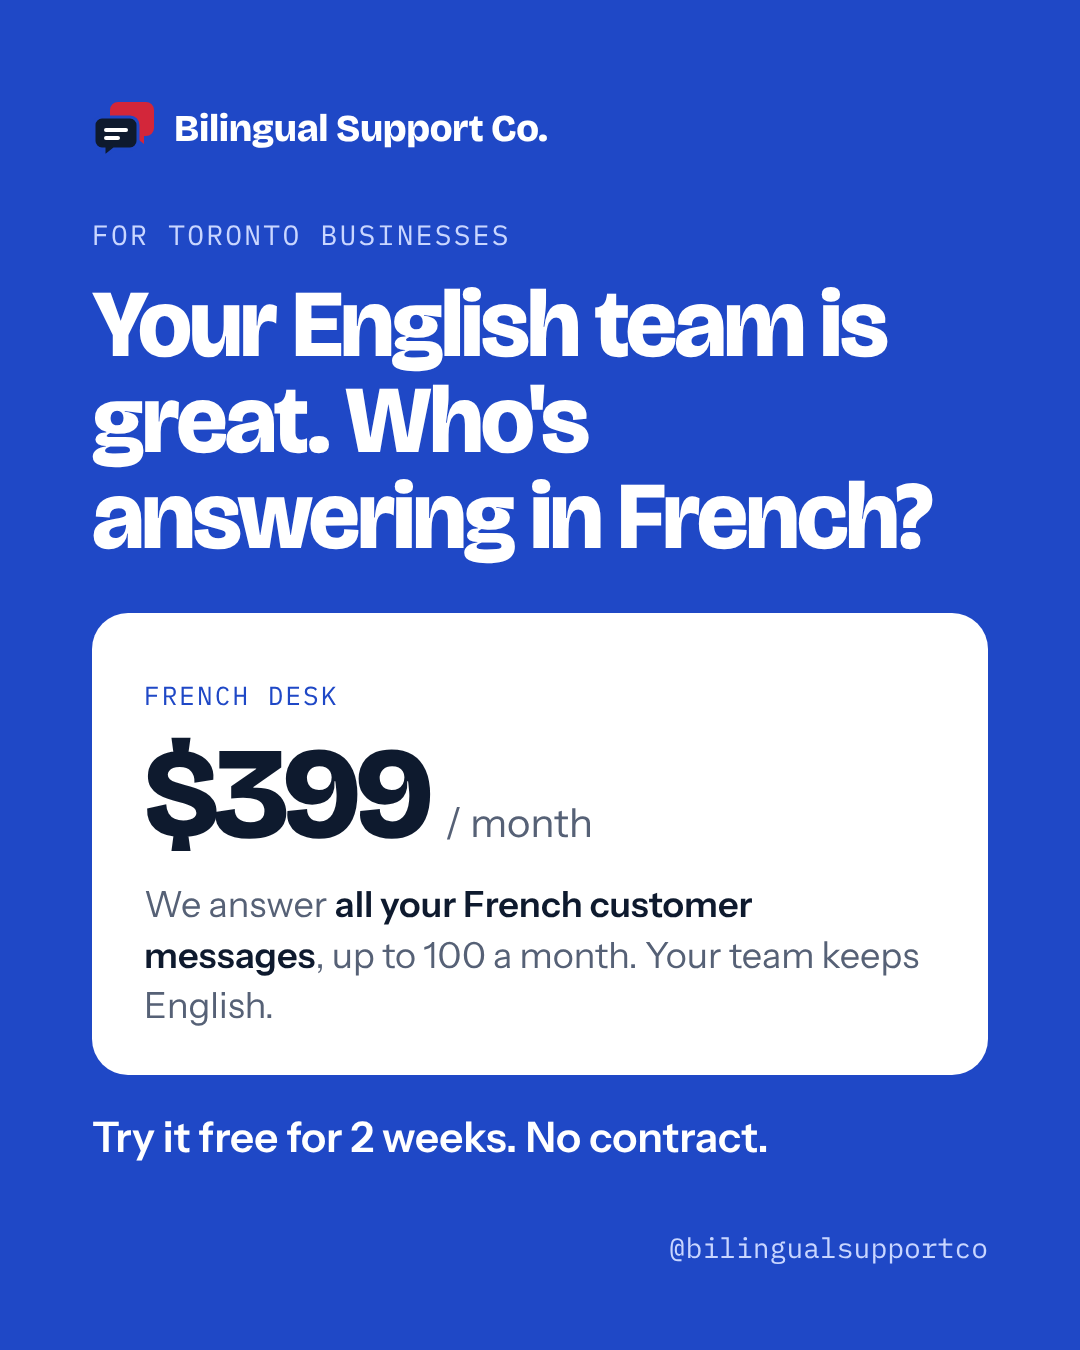
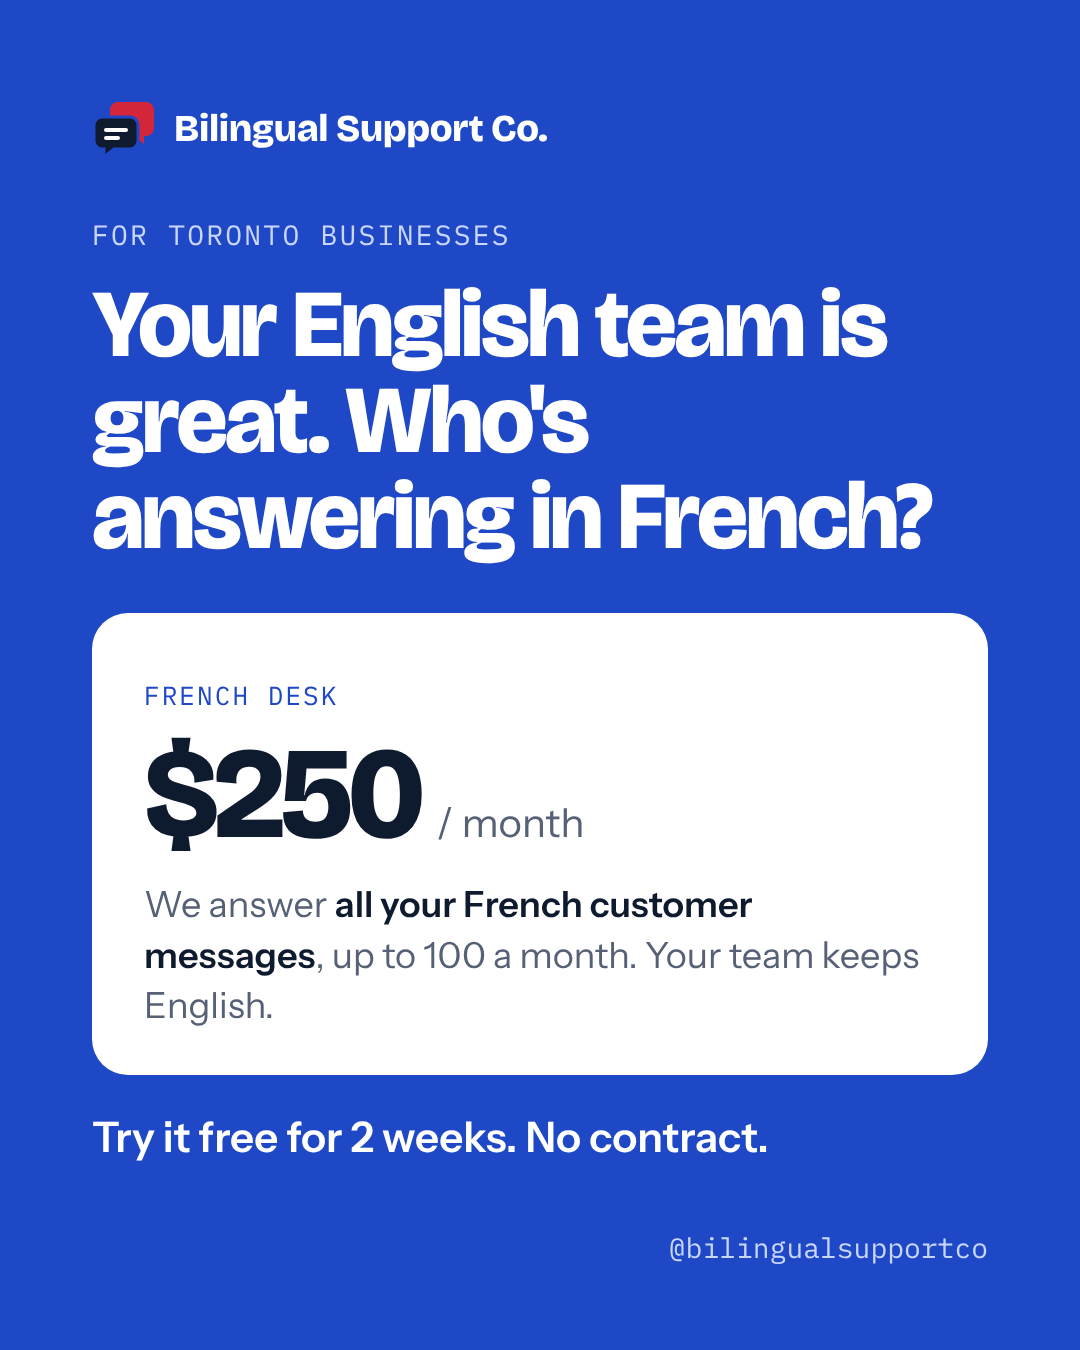
Lower French Desk to $250 a month
Updated on both pages, the outreach email, the Instagram post and the notes.

Claude-Session: https://claude.ai/code/session_01278itFnTQwsPyKsLeaEukH

Changed region(s): [[0.1833, 0.56, 0.55, 0.6222]]

diff --git a/fr/index.html b/fr/index.html
@@ -49,7 +49,7 @@
         <p class="label"><span>Service à la clientèle bilingue</span><span class="alt" lang="en-CA">Bilingual customer support</span></p>
         <h1>Votre service à la clientèle, en français et en anglais.</h1>
         <p class="echo" lang="en-CA">Your customer inbox, answered in English and French.</p>
-        <p class="lede">Nous répondons aux courriels et aux clavardages de vos clients en français et en anglais, directement dans vos outils et au nom de votre entreprise. Vous avez déjà une équipe en anglais? Nous pouvons prendre seulement vos messages en français, à partir de 399&nbsp;$ par mois.</p>
+        <p class="lede">Nous répondons aux courriels et aux clavardages de vos clients en français et en anglais, directement dans vos outils et au nom de votre entreprise. Vous avez déjà une équipe en anglais? Nous pouvons prendre seulement vos messages en français, à partir de 250&nbsp;$ par mois.</p>
         <div class="cta-row">
           <a class="btn btn-primary" href="#contact" data-pick="trial">Commencer l'essai gratuit de 2 semaines</a>
           <a class="btn btn-secondary" href="#tarifs">Voir les tarifs</a>
@@ -220,7 +220,7 @@
             <tr><td></td><th scope="col">Embauche à l'interne</th><th scope="col" class="us">Bilingual Support Co.</th></tr>
           </thead>
           <tbody>
-            <tr><th scope="row">Coût mensuel</th><td>Environ 4&nbsp;000&nbsp;$ ou plus pour une personne à temps plein, plus le recrutement</td><td class="us">399&nbsp;$ pour vos messages en français, ou 2&nbsp;500&nbsp;$ pour un agent à temps plein</td></tr>
+            <tr><th scope="row">Coût mensuel</th><td>Environ 4&nbsp;000&nbsp;$ ou plus pour une personne à temps plein, plus le recrutement</td><td class="us">250&nbsp;$ pour vos messages en français, ou 2&nbsp;500&nbsp;$ pour un agent à temps plein</td></tr>
             <tr><th scope="row">Délai avant la première réponse</th><td>Des semaines de recrutement, puis la formation</td><td class="us">Environ une semaine d'intégration</td></tr>
             <tr><th scope="row">Recrutement et formation</th><td>À votre charge</td><td class="us">Nous nous en occupons</td></tr>
             <tr><th scope="row">Vacances et congés de maladie</th><td>Le service en français s'arrête</td><td class="us">Nous assurons le remplacement</td></tr>
@@ -254,7 +254,7 @@
         <article class="plan plan-featured">
           <div class="plan-name"><h3>Service en français</h3><span class="plan-tag">Commencez ici</span></div>
           <p class="plan-fit">Pour les entreprises qui ont une équipe en anglais, mais personne pour le français.</p>
-          <div class="price"><span class="amount">399&nbsp;$</span><span class="unit">/ mois</span></div>
+          <div class="price"><span class="amount">250&nbsp;$</span><span class="unit">/ mois</span></div>
           <ul>
             <li><svg viewBox="0 0 20 20" fill="none" stroke="currentColor" stroke-width="2.2" aria-hidden="true"><path d="M4 10.5l4 4 8-9" stroke-linecap="round" stroke-linejoin="round"/></svg><span>Nous répondons à tous vos messages en français</span></li>
             <li><svg viewBox="0 0 20 20" fill="none" stroke="currentColor" stroke-width="2.2" aria-hidden="true"><path d="M4 10.5l4 4 8-9" stroke-linecap="round" stroke-linejoin="round"/></svg><span>Jusqu'à 100 conversations par mois</span></li>

diff --git a/index.html b/index.html
@@ -49,7 +49,7 @@
         <p class="label"><span>Bilingual customer support</span><span class="alt" lang="fr-CA">Service à la clientèle bilingue</span></p>
         <h1>Your customer inbox, answered in English and French.</h1>
         <p class="echo" lang="fr-CA">Votre service à la clientèle, en français et en anglais.</p>
-        <p class="lede">We reply to your customers' emails and chats in English and French, from inside your own tools and under your brand name. Already have an English team? We'll handle just your French messages, from $399 a month.</p>
+        <p class="lede">We reply to your customers' emails and chats in English and French, from inside your own tools and under your brand name. Already have an English team? We'll handle just your French messages, from $250 a month.</p>
         <div class="cta-row">
           <a class="btn btn-primary" href="#contact" data-pick="trial">Start a free 2-week trial</a>
           <a class="btn btn-secondary" href="#pricing">See pricing</a>
@@ -220,7 +220,7 @@
             <tr><td></td><th scope="col">Hiring in-house</th><th scope="col" class="us">Bilingual Support Co.</th></tr>
           </thead>
           <tbody>
-            <tr><th scope="row">Monthly cost</th><td>About $4,000 or more for one full-time person, plus recruiting</td><td class="us">$399 for your French messages, or $2,500 for a full-time rep</td></tr>
+            <tr><th scope="row">Monthly cost</th><td>About $4,000 or more for one full-time person, plus recruiting</td><td class="us">$250 for your French messages, or $2,500 for a full-time rep</td></tr>
             <tr><th scope="row">Time to first reply</th><td>Weeks of recruiting, then training</td><td class="us">About one week of onboarding</td></tr>
             <tr><th scope="row">Recruiting and training</th><td>Your job</td><td class="us">Our job</td></tr>
             <tr><th scope="row">Vacations and sick days</th><td>French support stops</td><td class="us">We arrange coverage</td></tr>
@@ -254,7 +254,7 @@
         <article class="plan plan-featured">
           <div class="plan-name"><h3>French Desk</h3><span class="plan-tag">Start here</span></div>
           <p class="plan-fit">For companies with an English team and no one for French.</p>
-          <div class="price"><span class="amount">$399</span><span class="unit">/ month</span></div>
+          <div class="price"><span class="amount">$250</span><span class="unit">/ month</span></div>
           <ul>
             <li><svg viewBox="0 0 20 20" fill="none" stroke="currentColor" stroke-width="2.2" aria-hidden="true"><path d="M4 10.5l4 4 8-9" stroke-linecap="round" stroke-linejoin="round"/></svg><span>We answer all your French messages</span></li>
             <li><svg viewBox="0 0 20 20" fill="none" stroke="currentColor" stroke-width="2.2" aria-hidden="true"><path d="M4 10.5l4 4 8-9" stroke-linecap="round" stroke-linejoin="round"/></svg><span>Up to 100 conversations a month</span></li>

diff --git a/marketing/instagram/posts-source.html b/marketing/instagram/posts-source.html
@@ -92,7 +92,7 @@
   <h1 class="display">Your English team is great. Who's answering in French?</h1>
   <div class="card">
     <p class="mono">French Desk</p>
-    <div class="price"><span class="amt">$399</span><span class="unit">/ month</span></div>
+    <div class="price"><span class="amt">$250</span><span class="unit">/ month</span></div>
     <p>We answer <strong>all your French customer messages</strong>, up to 100 a month. Your team keeps English.</p>
   </div>
   <p class="trial">Try it free for 2 weeks. No contract.</p>

diff --git a/CLAUDE.md b/CLAUDE.md
@@ -18,7 +18,7 @@ Toronto and Ontario companies whose customers speak French. Not Quebec companies
 | Plan | Included | Price |
 |---|---|---|
 | Free trial | 2 weeks, up to 50 French messages, no contract, no card | $0 |
-| French Desk | All French messages, up to 100 conversations/month, email | $399/month |
+| French Desk | All French messages, up to 100 conversations/month, email | $250/month |
 | Bilingual Desk | English and French, up to 300/month, email and chat | $899/month |
 | Dedicated rep | One full-time bilingual person (~160 h) | $2,500/month |
 - Price rule from the founder: clients must clearly win compared with hiring. A full-time customer service employee in Toronto costs about $4,000+/month with payroll costs (Job Bank median ~$21.50/h, Toronto Region). The $2,500 dedicated rep only works with remote reps in lower-cost French-speaking regions; never staff it with a Toronto employee at a loss.

diff --git a/marketing/outreach-email.md b/marketing/outreach-email.md
@@ -13,7 +13,7 @@ My name is Selma. I'm a bilingual (English and French) customer service professi
 
 {Company} sells online across Canada, so some of your customers probably write to you in French. I recently started Bilingual Support Co. to answer those messages for Ontario businesses. I reply from inside your own inbox, under your company's name, in natural Canadian French. Your team keeps handling English.
 
-To get started, I'm offering a free 2-week trial: I'll answer up to 50 of your French customer messages at no cost, with no contract. After that, it's $399 a month if you'd like to continue.
+To get started, I'm offering a free 2-week trial: I'll answer up to 50 of your French customer messages at no cost, with no contract. After that, it's $250 a month if you'd like to continue.
 
 Would you be open to a quick 15-minute call this week or next?
 

diff --git a/marketing/instagram/README.md b/marketing/instagram/README.md
@@ -33,7 +33,7 @@ Save this for your next French reply. Want someone to write them for you? Link i
 ### post-3.png — Who's answering in French?
 Your English team is great. Who's answering your French-speaking customers?
 
-French Desk: we answer all your French customer messages, up to 100 a month, for $399/month. Your team keeps English.
+French Desk: we answer all your French customer messages, up to 100 a month, for $250/month. Your team keeps English.
 
 Try it free for 2 weeks, no contract. Link in bio, or email bilingualsupportco@gmail.com.
 
